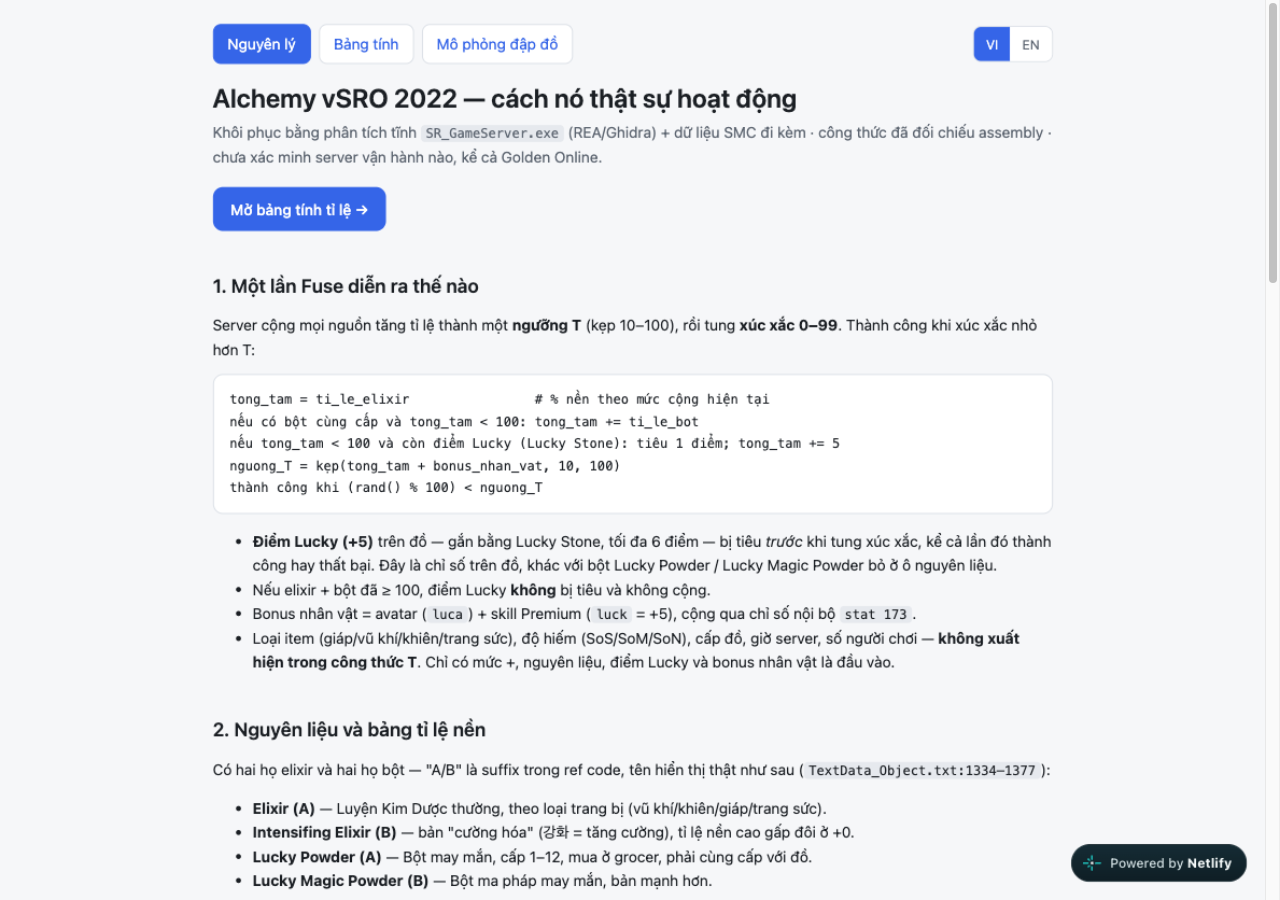
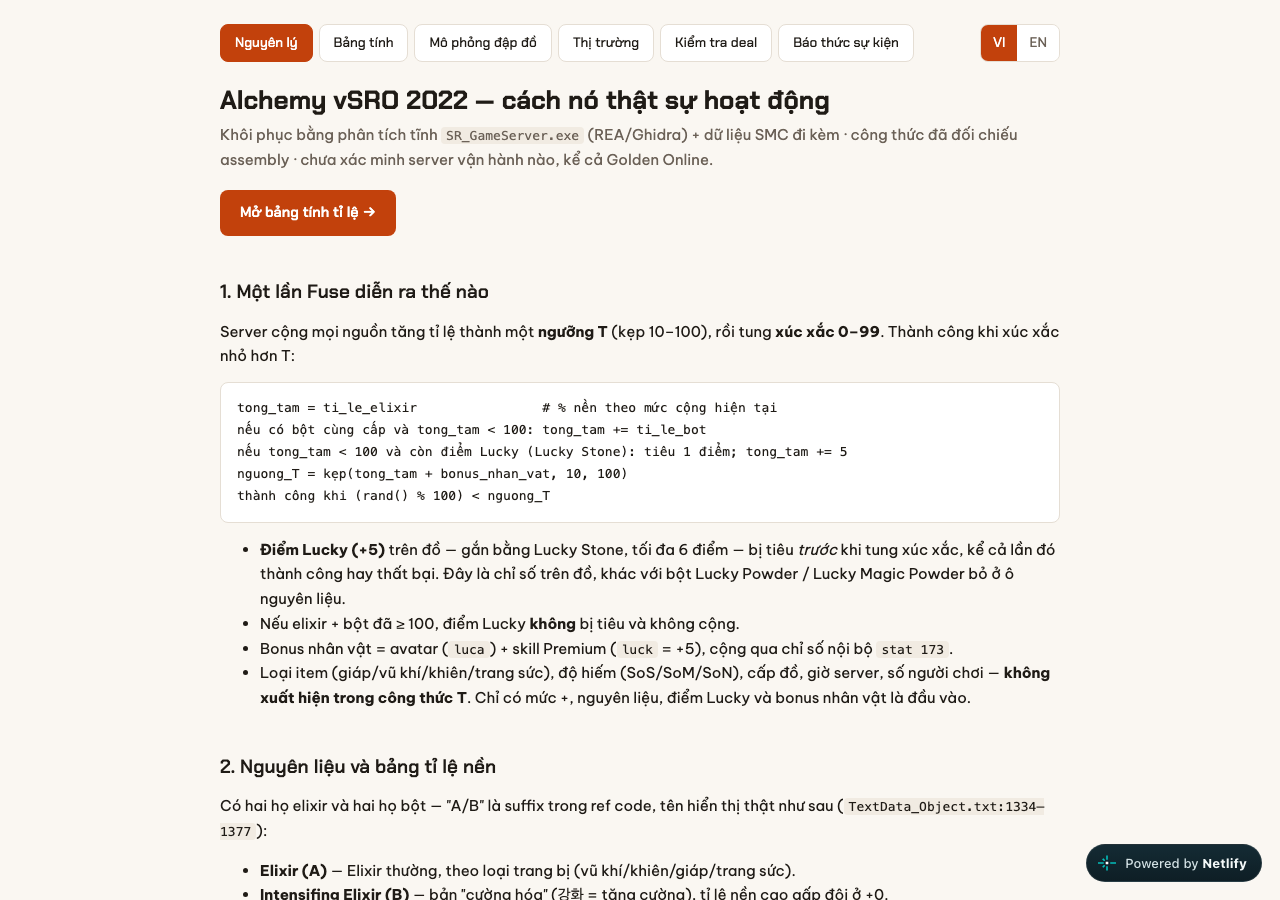
fix(posts): update vSRO alchemy posts to new Golden Silkroad Online site
Replace dead vsro-alchemy-explainer.netlify.app links with goldenonline.netlify.app, add the market, deal-checker and event-alarm tools, and refresh the screenshot.

diff --git a/_posts/2026-10-18-vsro-alchemy-explainer-en.md b/_posts/2026-10-18-vsro-alchemy-explainer-en.md
@@ -9,11 +9,11 @@ translations:
   vi: /blog/vsro-alchemy-explainer/
 ---
 
-![Home page of the vSRO Alchemy Explainer tool]({{ '/assets/images/posts/alchemy-explainer.png' | relative_url }})
+![The principles page of Golden Silkroad Online]({{ '/assets/images/posts/alchemy-explainer.png' | relative_url }})
 
 Ask anyone who plays Silkroad for tips on upgrading gear and you'll get every ritual there is: waiting for the right hour, waiting for an empty server, changing maps, unequipping accessories before smashing... After reverse-engineering the `SR_GameServer.exe` of the **vSRO 2022** package, it turns out a single upgrade attempt is just **one addition and one dice roll** — there is no variable named "lucky hour".
 
-This post introduces [vSRO Alchemy Explainer](https://vsro-alchemy-explainer.netlify.app/), a page I built from the results of that analysis, along with a [calculator](https://vsro-alchemy-explainer.netlify.app/calculator.html) for success thresholds and a [simulator](https://vsro-alchemy-explainer.netlify.app/simulator.html) for upgrade attempts. The full evidence — function addresses, Evidence IDs, 98 records — is documented in the technical report of the analysis repo (private, not public).
+This post introduces [Golden Silkroad Online](https://goldenonline.netlify.app/index.html), a page I built from the results of that analysis, along with a [calculator](https://goldenonline.netlify.app/calculator.html) for success thresholds and a [simulator](https://goldenonline.netlify.app/simulator.html) for upgrade attempts; the site now also has a [WTB-WTS market board](https://goldenonline.netlify.app/market.html), a [deal checker](https://goldenonline.netlify.app/deal.html) and an [event alarm](https://goldenonline.netlify.app/alarm.html). The full evidence — function addresses, Evidence IDs, 98 records — is documented in the technical report of the analysis repo (private, not public).
 
 ## How a single upgrade works
 
@@ -56,9 +56,12 @@ The server uses the Microsoft C LCG random generator and takes the remainder of 
 
 ## The tool
 
-- **[Principles](https://vsro-alchemy-explainer.netlify.app/)** — a full walkthrough of the mechanics, in Vietnamese and English.
-- **[Calculator](https://vsro-alchemy-explainer.netlify.app/calculator.html)** — enter your upgrade level, materials, Lucky and character bonuses; the editable rate fields let you mimic other servers.
-- **[Simulator](https://vsro-alchemy-explainer.netlify.app/simulator.html)** — play the gear-baiting strategy in X-ray mode, then switch to Blind to test it for yourself.
+- **[Principles](https://goldenonline.netlify.app/index.html)** — a full walkthrough of the mechanics, in Vietnamese and English.
+- **[Calculator](https://goldenonline.netlify.app/calculator.html)** — enter your upgrade level, materials, Lucky and character bonuses; the editable rate fields let you mimic other servers.
+- **[Simulator](https://goldenonline.netlify.app/simulator.html)** — play the gear-baiting strategy in X-ray mode, then switch to Blind to test it for yourself.
+- **[Market](https://goldenonline.netlify.app/market.html)** — the WTB-WTS price board from the #wtb-wts Discord channel: silk/gold rate, elixirs, gear and currencies.
+- **[Deal checker](https://goldenonline.netlify.app/deal.html)** — compare one item's price against the week's buy/sell range to see whether you're overpaying.
+- **[Event alarm](https://goldenonline.netlify.app/alarm.html)** — set how many minutes ahead to be warned; the chime follows the daily event schedule and settings stay on your device.
 
 ## Limitations
 
